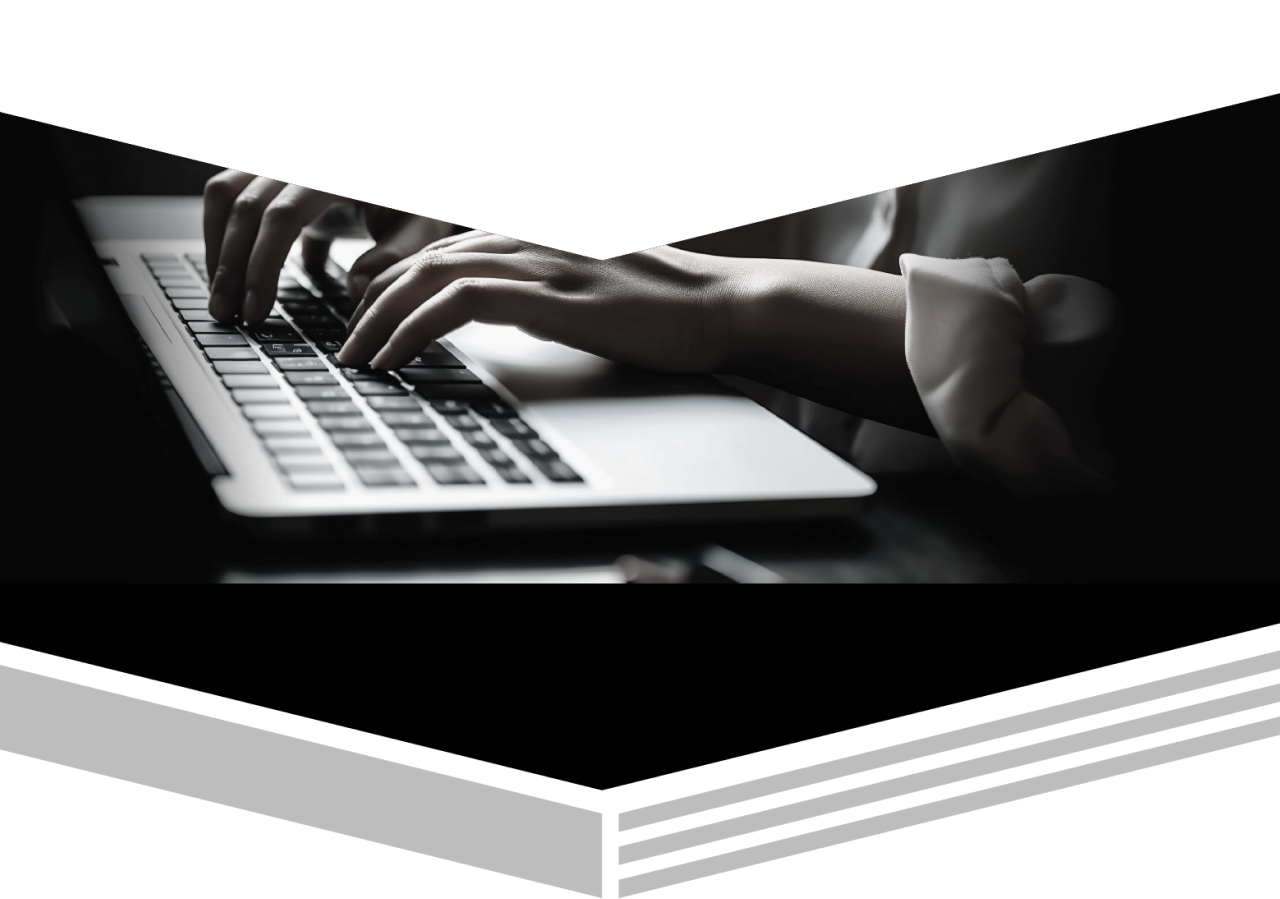
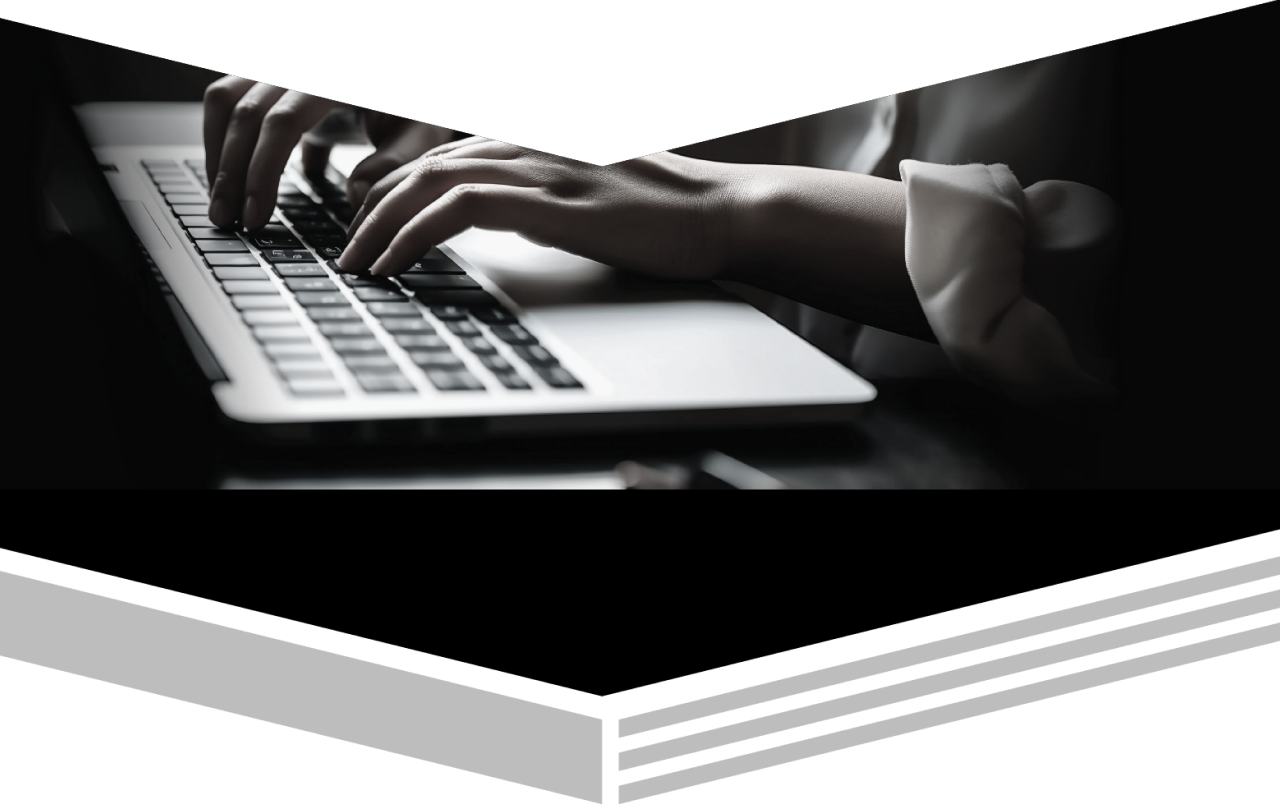
changes for chat and favourite

diff --git a/resources/views/containers/index.blade.php b/resources/views/containers/index.blade.php
@@ -1,6 +1,32 @@
 @extends('layouts.master')
 @section('content')
     <style>
+        .blackBgImg{
+            background: url(assets/hbg.png);
+            width: 100%;
+            height: 580px;
+            background-repeat: no-repeat;
+            position: absolute;
+            background-size: 100% 100%;
+            top: 0px;
+            background-position: 50%;
+            z-index: -1;
+        }
+        .bgGrayDiv{
+            position: relative;
+            top: 0px;
+            z-index: 0;
+        }
+        .bgOrangeImage{
+            background: url(assets/orange_bg.png);
+            width: 100%;
+            height: 890px;
+            background-repeat: no-repeat;
+            background-size: 100% 100%;
+            position: absolute;
+            top: -220px;
+            z-index: -1;
+        }
         /* @media screen and (min-width: 1023px) {
                                                                                                                                                                                                                                                                                                                                                                                                                                                                             .mobile_nav {
                                                                                                                                                                                                                                                                                                                                                                                                                                                                             margin-top: 50px;
@@ -20,20 +46,22 @@
                                                                                                         transform: translate(-50%, -50%); */
     </style>
     <div class="">
-        <img class="absolute top-[830px] lg:top-[940px]   max-h-[900px]  -z-10 w-full orange-bg"
-            src="{{ asset('assets/orange_bg.png') }}" alt="">
-        <img class="w-full absolute top-5 sm:top-0 lg:top-0 -z-10   2xl:h-[650px] object-cover " style=""
-            src="{{ asset('assets/hero_bg.png') }}" alt="">
-        <div class="w-full lg:max-w-4xl mx-auto  lg:mt-34 px-8">
-            <div class="hidden md:block overflow-hidden">
-                @include('components/slider/slider')
-            </div>
-            <div class="block md:hidden ">
-                @include('components/slider/mobile_slider')
-            </div>
-            <div>
+        {{-- <img class="absolute top-[830px] lg:top-[940px]   max-h-[900px]  -z-10 w-full orange-bg"
+            src="{{ asset('assets/orange_bg.png') }}" alt=""> --}}
+        {{-- <img class="w-full absolute top-5 sm:top-0 lg:top-0 -z-10   2xl:h-[650px] object-cover " style=""
+            src="{{ asset('assets/hero_bg.png') }}" alt=""> --}}
+            <div class="blackBgImg"></div>
+                <div class="w-full lg:max-w-4xl mx-auto  lg:mt-34 px-8">
+                    <div class="hidden md:block overflow-hidden">
+                        @include('components/slider/slider')
+                    </div>
+                    <div class="block md:hidden ">
+                        @include('components/slider/mobile_slider')
+                    </div>
+                </div>
+            {{-- </div> --}}
 
-            </div>
+        <div class="w-full lg:max-w-4xl mx-auto  lg:mt-34 px-8">
             <div class="mt-4 lg:mt-10 ">
                 <div class="bg-[#F5821F]  px-8 py-2 lg:p-8">
                     <div
@@ -164,6 +192,7 @@
             </div>
         </div>
 
+
         {{-- <div>
     <div class="hidden md:block overflow-hidden">
         @include('components/slider/slider')
@@ -173,6 +202,9 @@
     </div>
 
 </div> --}}
+        <div class="relative">
+        <div class="bgOrangeImage"></div>
+        </div>
         <div class="max-w-4xl mx-auto mt-14 lg:mt-40 px-8">
             <div>
 
@@ -216,5 +248,5 @@
             </div>
 
         </div>
-    </div>
+    {{-- </div> --}}
 @endsection

diff --git a/resources/views/components/navbar.blade.php b/resources/views/components/navbar.blade.php
@@ -1,9 +1,9 @@
 <style>
-    @media screen and (max-width: 5000px) and (min-width: 768px) {
+    /* @media screen and (max-width: 5000px) and (min-width: 768px) {
         #navitems {
             background-color: white !important;
         }
-    }
+    } */
 
     /* @media screen and (max-width: 1800px) and (min-width: 5000px) {
         #navitems {

diff --git a/resources/views/components/footer.blade.php b/resources/views/components/footer.blade.php
@@ -8,7 +8,7 @@
         $backgorund = 'bg-black';
     @endphp
 @endif
-<div class="w-full relative bottom-0 mb-0 ">
+<div class="w-full relative bottom-0 mb-0">
     <footer class="{{ $backgorund }} p-4 text-white w-full hidden lg:block relative bottom-0">
         <div class="grid lg:grid-cols-4  max-w-5xl mx-auto">
             <div class="mx-auto">

diff --git a/resources/views/layouts/app.blade.php b/resources/views/layouts/app.blade.php
@@ -83,7 +83,7 @@
             </div>
         </nav>
 
-        <main class="py-4">
+        <main class="py-4 bg-gray-200">
             @yield('content')
         </main>
     </div>

diff --git a/resources/views/layouts/master.blade.php b/resources/views/layouts/master.blade.php
@@ -22,7 +22,9 @@
 
 <body>
     @include('components.navbar')
+    <div class="bg-gray-200 bgGrayDiv">
     @yield('content')
+    </div>
     @include('components.footer')
 </body>
 
